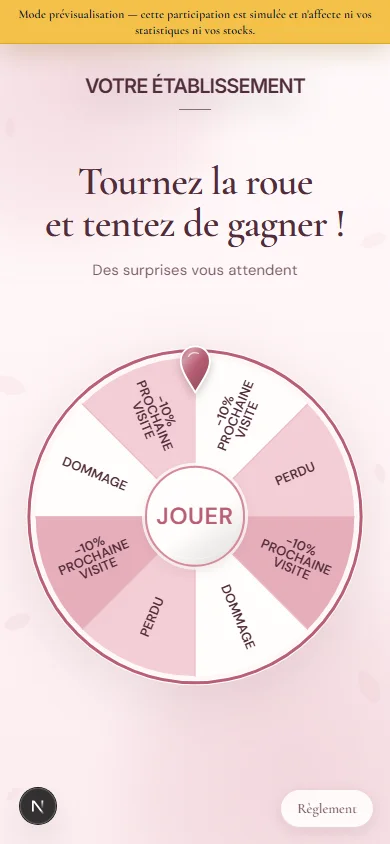
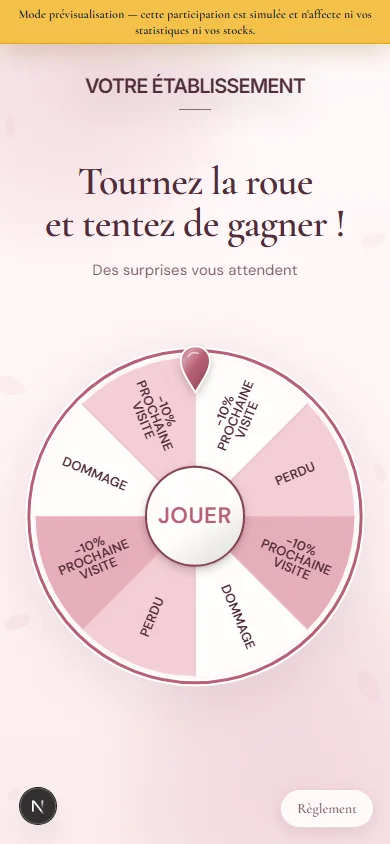
fix(wheel): refine play label and beauty center relief (#460)

Changed region(s): [[0.4, 0.5545, 0.6462, 0.6777], [0.3692, 0.5545, 0.4923, 0.6469], [0.4615, 0.5237, 0.5231, 0.5545]]

diff --git a/apps/web-app/src/components/merchant/beauty-wheel-template-gallery.tsx b/apps/web-app/src/components/merchant/beauty-wheel-template-gallery.tsx
@@ -2,7 +2,7 @@ import { BEAUTY_WHEEL_THEMES, beautyWheelBackground, beautyWheelDefaultBackgroun
 import Image from "next/image";
 import { buildBeautyWheelSegmentColors } from "@/lib/beauty-wheel-segments";
 import { BeautyLogoRule, BeautyWheelPointer } from "@/components/public/beauty-wheel-finishes";
-import { beautyCenterFinish } from "@/lib/beauty-wheel-finishes";
+import { beautyCenterFinish, beautyCenterRelief } from "@/lib/beauty-wheel-finishes";
 import { wheelButtonBackgroundForWhiteText } from "@/lib/wheel-button-contrast";
 import { textFontFamily } from "@/lib/format";
 import type { GamePageTemplateId } from "@/lib/types";
@@ -22,7 +22,7 @@ function BeautyWheelThumbnail({ theme }: { theme: BeautyTheme }) {
     <div
       aria-hidden="true"
       className="absolute -bottom-5 right-[-0.8rem] z-10 grid size-32 place-items-center rounded-full border-[3px] p-[3px]"
-      style={{ borderColor: ringColor, backgroundColor: theme.secondary, outline: "1px solid white", boxShadow: `0 8px 22px color-mix(in srgb, ${theme.primary} 22%, transparent)` }}
+      style={{ borderColor: ringColor, backgroundColor: theme.secondary, outline: "2px solid white", boxShadow: `0 8px 22px color-mix(in srgb, ${theme.primary} 22%, transparent)` }}
     >
       <div
         className="relative size-full rounded-full"
@@ -30,8 +30,8 @@ function BeautyWheelThumbnail({ theme }: { theme: BeautyTheme }) {
       >
         <div
           data-testid="beauty-thumbnail-center"
-          className="absolute left-1/2 top-1/2 flex size-[2.7rem] -translate-x-1/2 -translate-y-1/2 items-center justify-center rounded-full border-2 text-[9px] font-semibold tracking-[0.025em]"
-          style={{ background: beautyCenterFinish(centerBackground), borderColor: theme.id === "beauty-rose" ? theme.primary : "#ffffff", color: centerTextColor, fontFamily: textFontFamily("dm-sans"), boxShadow: `0 2px 6px color-mix(in srgb, ${theme.primary} 25%, transparent)` }}
+          className="absolute left-1/2 top-1/2 flex size-[2.7rem] -translate-x-1/2 -translate-y-1/2 items-center justify-center rounded-full border-2 text-[8px] font-semibold tracking-[0.025em]"
+          style={{ background: beautyCenterFinish(centerBackground), color: centerTextColor, fontFamily: textFontFamily("dm-sans"), ...beautyCenterRelief(theme.primary) }}
         >
           <span>JOUER</span>
         </div>
@@ -59,10 +59,10 @@ function EclatWheelThumbnail() {
     <div
       aria-hidden="true"
       className="absolute -bottom-5 right-[-0.8rem] z-10 grid size-32 place-items-center rounded-full border-[3px] border-[#f3a4c4] p-1 shadow-[0_9px_24px_rgba(222,103,151,0.18)]"
-      style={{ outline: "1px solid white", backgroundImage: "conic-gradient(from -22.5deg, #f3a4c4 0deg 45deg, #fff9fb 45deg 90deg, #f3a4c4 90deg 135deg, #fff9fb 135deg 180deg, #f3a4c4 180deg 225deg, #fff9fb 225deg 270deg, #f3a4c4 270deg 315deg, #fff9fb 315deg 360deg)" }}
+      style={{ outline: "2px solid white", backgroundImage: "conic-gradient(from -22.5deg, #f3a4c4 0deg 45deg, #fff9fb 45deg 90deg, #f3a4c4 90deg 135deg, #fff9fb 135deg 180deg, #f3a4c4 180deg 225deg, #fff9fb 225deg 270deg, #f3a4c4 270deg 315deg, #fff9fb 315deg 360deg)" }}
     >
       <div className="relative size-full rounded-full">
-        <div data-testid="beauty-thumbnail-center" className="absolute left-1/2 top-1/2 grid size-10 -translate-x-1/2 -translate-y-1/2 place-items-center rounded-full border-2 border-white text-[9px] font-semibold tracking-wide text-white shadow-md" style={{ background: beautyCenterFinish("#003cb4"), fontFamily: textFontFamily("dm-sans") }}>
+        <div data-testid="beauty-thumbnail-center" className="absolute left-1/2 top-1/2 grid size-10 -translate-x-1/2 -translate-y-1/2 place-items-center rounded-full border-2 text-[8px] font-semibold tracking-wide text-white" style={{ background: beautyCenterFinish("#003cb4"), fontFamily: textFontFamily("dm-sans"), ...beautyCenterRelief("#003cb4") }}>
           JOUER
         </div>
       </div>

diff --git a/apps/web-app/e2e/beauty-wheel-polish.spec.ts b/apps/web-app/e2e/beauty-wheel-polish.spec.ts
@@ -25,7 +25,19 @@ for (const template of templates) {
         await expect(button.locator("svg")).toHaveCount(0);
         await expect(button).toHaveCSS("background-image", /radial-gradient/);
         const label = button.locator(".okado-beauty-wheel-center-label");
-        expect(await label.evaluate((node) => Number.parseFloat(getComputedStyle(node).fontSize))).toBeGreaterThanOrEqual(17);
+        const fontSizes = await label.evaluate((node) => {
+          const current = Number.parseFloat(getComputedStyle(node).fontSize);
+          const element = node as HTMLElement;
+          element.style.fontSize = "clamp(17px, 6cqw, 28px)";
+          const previous = Number.parseFloat(getComputedStyle(node).fontSize);
+          element.style.removeProperty("font-size");
+          return { current, previous };
+        });
+        expect(fontSizes.current).toBeGreaterThanOrEqual(16);
+        expect(fontSizes.previous - fontSizes.current).toBeCloseTo(1, 2);
+        expect(await button.evaluate((node) => getComputedStyle(node, "::after").content)).toBe("none");
+        await expect(button).not.toHaveCSS("border-top-color", "rgb(255, 255, 255)");
+        await expect(button).not.toHaveCSS("box-shadow", "none");
         const buttonBox = (await button.boundingBox())!;
         const labelBox = (await label.boundingBox())!;
         expect(labelBox.width).toBeLessThan(buttonBox.width - 4);
@@ -34,6 +46,9 @@ for (const template of templates) {
         await expect(ring.locator("circle")).toHaveCount(2);
         await expect(ring.locator("circle").first()).toHaveAttribute("stroke", "#ffffff");
         await expect(surface.getByTestId("beauty-wheel-colored-rim")).toHaveAttribute("stroke-width", template === "beauty-nude" ? "2.5" : template === "beauty-pop" ? "3.2" : "3");
+        const whiteStroke = Number(await ring.locator("circle").first().getAttribute("stroke-width"));
+        const colorStroke = Number(await surface.getByTestId("beauty-wheel-colored-rim").getAttribute("stroke-width"));
+        expect((whiteStroke - colorStroke) / 2).toBeCloseTo(2);
         const pointer = surface.getByTestId("beauty-wheel-pointer");
         await expect(pointer).toHaveCSS("filter", /drop-shadow/);
         await expect(pointer.getByTestId("beauty-pointer-body")).toHaveAttribute("fill", /url\(#beauty-pointer-/);
@@ -80,6 +95,9 @@ test("les sept miniatures ont le centre sans icône, le reflet et un pointeur en
   for (const center of await centers.all()) {
     await expect(center.locator("svg")).toHaveCount(0);
     await expect(center).toHaveCSS("background-image", /radial-gradient/);
+    await expect(center).toHaveCSS("font-size", "8px");
+    await expect(center).not.toHaveCSS("border-top-color", "rgb(255, 255, 255)");
+    await expect(center).not.toHaveCSS("box-shadow", "none");
   }
   await expect(page.getByTestId("beauty-wheel-pointer")).toHaveCount(7);
   await expect(page.getByTestId("beauty-logo-rule")).toHaveCount(7);

diff --git a/apps/web-app/src/components/public/wheel-of-fortune.tsx b/apps/web-app/src/components/public/wheel-of-fortune.tsx
@@ -4,7 +4,7 @@ import { useEffect, useState } from "react";
 import { HalloweenWheelVisual } from "@/components/public/halloween-wheel-art";
 import { halloweenWheelVisualSegments } from "@/lib/halloween-wheel-theme";
 import { BeautyWheelPointer, BeautyWheelRim } from "@/components/public/beauty-wheel-finishes";
-import { beautyCenterFinish, beautyWheelRimColor } from "@/lib/beauty-wheel-finishes";
+import { beautyCenterFinish, beautyCenterRelief, beautyWheelRimColor } from "@/lib/beauty-wheel-finishes";
 import { textFontFamily } from "@/lib/format";
 import { dynamicWheelLightSegmentColor } from "@/lib/campaign-defaults";
 import { legibleSegmentTextColor } from "@/lib/color-contrast";
@@ -741,7 +741,7 @@ export function WheelOfFortune({
                 : isClassicTemplate || isRestaurantPopTemplate
                   ? highContrastTextColor(centerButtonBackground)
                   : centerButtonTextColor,
-            borderColor: isRosePowderTemplate ? "#d58a9a" : isClassicTemplate || isRestaurantPopTemplate ? "#ffffff" : isRoseInstitutTemplate || isBeautyTemplate ? "#ffffff" : buttonStyle?.borderColor ?? "#ffffff",
+            borderColor: hasBeautyFinish ? beautyCenterRelief(isRosePowderTemplate ? roseAccent : centerButtonBackground).borderColor : isClassicTemplate || isRestaurantPopTemplate ? "#ffffff" : buttonStyle?.borderColor ?? "#ffffff",
             fontSize: isClassicTemplate
               ? "clamp(0.88rem, 5.1cqw, 1.75rem)"
               : isRestaurantPopTemplate
@@ -749,7 +749,7 @@ export function WheelOfFortune({
               : isRoseInstitutTemplate
                 ? "clamp(0.92rem, 5.6cqw, 1.8rem)"
               : "clamp(0.84rem, 4.7cqw, 1.55rem)",
-            boxShadow: isRosePowderTemplate ? "0 4px 12px rgba(90,45,60,.10), 0 0 0 3px rgba(255,253,252,.88)" : isClassicTemplate || isRestaurantPopTemplate ? `0 6px 20px ${withAlpha(colors.loseColor, 0.26)}, 0 0 0 2px ${withAlpha(colors.rimColor, 0.24)}` : isBeautyTemplate ? `0 6px 16px ${withAlpha(colors.rimColor, pageTemplate === "beauty-botanical" ? 0.26 : 0.2)}, 0 0 0 2px ${withAlpha(beautyTheme?.secondary ?? "#ffffff", 0.88)}` : isRoseInstitutTemplate ? "0 8px 18px rgba(11,78,162,0.22)" : undefined,
+            boxShadow: hasBeautyFinish ? beautyCenterRelief(isRosePowderTemplate ? roseAccent : centerButtonBackground).boxShadow : isClassicTemplate || isRestaurantPopTemplate ? `0 6px 20px ${withAlpha(colors.loseColor, 0.26)}, 0 0 0 2px ${withAlpha(colors.rimColor, 0.24)}` : undefined,
             WebkitTextStroke: isRestaurantPopTemplate ? "0.35px currentColor" : undefined,
           }}
         >

diff --git a/apps/web-app/src/app/globals.css b/apps/web-app/src/app/globals.css
@@ -1751,37 +1751,12 @@ button:disabled,
   opacity: .9;
 }
 
-.okado-beauty-wheel-center::after {
-  position: absolute;
-  inset: 5px;
-  border: 1px solid rgba(255, 255, 255, .38);
-  border-radius: inherit;
-  content: "";
-  pointer-events: none;
-}
-
-.okado-beauty-wheel-center--beauty-nude::after {
-  border-color: rgba(255, 248, 232, .58);
-}
-
-.okado-beauty-wheel-center--beauty-botanical::after {
-  border-color: rgba(245, 250, 241, .58);
-}
-
 .okado-beauty-wheel-center .okado-beauty-wheel-center-label {
   font-family: var(--font-dm-sans), sans-serif;
-  font-size: clamp(17px, 6cqw, 28px);
+  font-size: calc(clamp(17px, 6cqw, 28px) - 1px);
   font-weight: 600;
   line-height: 1;
   letter-spacing: .025em;
-}
-
-.okado-beauty-wheel-center--beauty-editorial::after {
-  border-color: rgba(255, 247, 229, .62);
-}
-
-.okado-beauty-wheel-center--beauty-tech::after {
-  border-color: rgba(232, 221, 255, .64);
 }
 
 /* Éclat keeps its merchant-selected typeface; its central action remains

diff --git a/apps/web-app/src/lib/beauty-wheel-finishes.ts b/apps/web-app/src/lib/beauty-wheel-finishes.ts
@@ -5,6 +5,14 @@ export function beautyCenterFinish(background: string) {
   return `radial-gradient(ellipse at 24% 17%, rgba(255,255,255,.38) 0%, rgba(255,255,255,.1) 23%, transparent 48%), linear-gradient(145deg, color-mix(in srgb, ${background} 94%, white), ${background} 56%, color-mix(in srgb, ${background} 86%, black))`;
 }
 
+/** A darker, single edge and a soft cast shadow; no inner white ring. */
+export function beautyCenterRelief(accent: string) {
+  return {
+    borderColor: `color-mix(in srgb, ${accent} 70%, black)`,
+    boxShadow: `0 4px 10px rgba(39,28,23,.20), 0 1px 3px color-mix(in srgb, ${accent} 25%, transparent)`,
+  };
+}
+
 /** The native rim uses the accent, but an explicit custom rim keeps its color. */
 export function beautyWheelRimColor(templateId: GamePageTemplateId, rim: string, accent: string) {
   const theme = beautyWheelTheme(templateId);

diff --git a/apps/web-app/src/components/public/beauty-wheel-finishes.tsx b/apps/web-app/src/components/public/beauty-wheel-finishes.tsx
@@ -5,7 +5,7 @@ import { useId, type CSSProperties } from "react";
 /** Decorative only: no interaction, segment selection or animation state. */
 export function BeautyWheelRim({ color, width, fill }: { color: string; width: number; fill: string }) {
   return <g data-testid="beauty-wheel-rim">
-    <circle cx="320" cy="320" r="317" fill={fill} stroke="#ffffff" strokeWidth={width + 2} vectorEffect="non-scaling-stroke" />
+    <circle cx="320" cy="320" r="317" fill={fill} stroke="#ffffff" strokeWidth={width + 4} vectorEffect="non-scaling-stroke" />
     <circle data-testid="beauty-wheel-colored-rim" cx="320" cy="320" r="317" fill="none" stroke={color} strokeWidth={width} vectorEffect="non-scaling-stroke" />
   </g>;
 }

diff --git a/docs/design/wheel-polish-460.md b/docs/design/wheel-polish-460.md
@@ -8,11 +8,11 @@ La demande concerne les finitions, pas une copie du fond ou des pictogrammes de 
 
 ## Choix visuels
 
-- JOUER seul, sans main ni fleur, en DM Sans 600. Taille responsive de 17 à 28 px, sans diminuer les diamètres des disques centraux.
-- Reflet radial discret en haut à gauche, léger modelé diagonal et liseré intérieur. Rose poudré garde son disque ivoire ; les autres thèmes gardent leur teinte propre et la correction de contraste existante.
+- JOUER seul, sans main ni fleur, en DM Sans 600. Taille responsive de 16 à 27 px : réduction exacte de 1 px par rapport à la première version de la PR #461, sans diminuer les diamètres des disques centraux.
+- Reflet radial discret en haut à gauche et léger modelé diagonal. Aucun filet blanc intérieur ; contour assombri de la teinte du bouton et ombre portée douce. Rose poudré garde son disque ivoire ; les autres thèmes gardent leur teinte propre et la correction de contraste existante.
 - Filet de 32 × 1 px sous un logo texte, absent avec une image ou sans logo.
 - Lots en DM Sans 600, déjà disponible : tailles minimales, contenu et orientation relative aux segments inchangés.
-- Un seul contour coloré, renforcé de 1 px (2,5 px Nude, 3,2 px Pop, 3 px pour les autres), accompagné d'un liseré blanc extérieur de 1 px. Épaisseur stable en pixels CSS grâce au trait non redimensionné.
+- Un seul contour coloré, renforcé de 1 px (2,5 px Nude, 3,2 px Pop, 3 px pour les autres), accompagné d'un liseré blanc extérieur de 2 px, augmenté de 1 px à la demande du propriétaire. Épaisseur stable en pixels CSS grâce au trait non redimensionné.
 - Pointeur avec modelé, reflet haut-gauche, bord blanc et ombre douce. Les ancrages et dimensions précédents restent inchangés ; Éclat adopte la finition goutte.
 - Les couleurs de contour explicitement personnalisées restent prioritaires ; les contours natifs suivent l'accent du thème.
 
@@ -44,6 +44,10 @@ Base : PR #459, commit `b83ab06`, issue #458. PR empilée, sans fusion implicite
 - Inspection des sept captures publiques, des aperçus et de la galerie : aucune icône au centre, texte JOUER non tronqué à 320/390 px, vrais lots conservés et aucune erreur de page.
 - Revue React : aucun effet, callback ou état de jeu ajouté/modifié ; finitions communes, dégradés CSS légers, identifiants SVG uniques et décor non interactif.
 - Serveur construit en mode production : la fixture `/dev/beauty-wheel-backgrounds` reste inaccessible (HTTP 404).
+
+### Itération après retour sur la PR #461
+
+Le même jour, les 127 tests sont rejoués avec succès après réduction du libellé de 1 px, suppression du filet blanc intérieur, contour assombri/ombre du centre et liseré extérieur passé à 2 px. Les sept captures et la galerie ci-dessus sont remplacées par ce dernier rendu. Les tests mesurent le delta exact de police et l'épaisseur du liseré ; lint toujours sans erreur (quatre avertissements existants). Aucun changement de dimensions, de palette ni de handlers.
 
 ## Recette propriétaire
 

diff --git a/docs/PRODUCT.md b/docs/PRODUCT.md
@@ -78,7 +78,7 @@
 
 ## Finitions des roues Beauté — issue #460
 
-Les six thèmes Beauté et Éclat partagent une finition de disque central en relief, sans icône, avec JOUER en DM Sans. Les libellés des lots utilisent également DM Sans, graisse 600, sans modifier leur orientation relative aux segments ni leur taille minimale. Le contour coloré est renforcé de 1 px et suivi d'un liseré blanc, sans anneau coloré extérieur en doublon. Les pointeurs gardent leur ancrage et bénéficient d'un dégradé/reflet et d'une ombre douce. Un filet fin suit le logo uniquement en mode texte ; il est absent en mode image et sans logo. Les diamètres des centres, palettes, réglages de textes/espacements, fonds et mécanique de jeu sont préservés. Les miniatures reprennent les mêmes finitions.
+Les six thèmes Beauté et Éclat partagent une finition de disque central en relief, sans icône, avec JOUER en DM Sans. Après le retour propriétaire sur la PR #461, JOUER est réduit de 1 px (16–27 px), le filet blanc intérieur du bouton est supprimé et remplacé par un contour assombri et une ombre douce. Les libellés des lots utilisent également DM Sans, graisse 600, sans modifier leur orientation relative aux segments ni leur taille minimale. Le contour coloré est renforcé de 1 px et suivi d'un liseré blanc extérieur de 2 px, sans anneau coloré extérieur en doublon. Les pointeurs gardent leur ancrage et bénéficient d'un dégradé/reflet et d'une ombre douce. Un filet fin suit le logo uniquement en mode texte ; il est absent en mode image et sans logo. Les diamètres des centres, palettes, réglages de textes/espacements, fonds et mécanique de jeu sont préservés. Les miniatures reprennent les mêmes finitions.
 
 ## Fonds des roues Nude & Or et Botanical — issue #458
 

diff --git a/docs/TEST_STRATEGY.md b/docs/TEST_STRATEGY.md
@@ -85,6 +85,7 @@ Un changement qui touche l'un de ces parcours doit avoir une preuve de test auto
 
 - `e2e/beauty-wheel-polish.spec.ts` : six thèmes Beauté et Éclat, aperçu compact et jeu public à 320/390 px, JOUER sans icône et police agrandie non tronquée, reflet haut-gauche, police DM Sans des vrais lots, contour coloré unique + liseré blanc, pointeur en relief et identifiants SVG uniques.
 - Logo texte/image/aucun : filet uniquement sous le texte. Vérifier les choix de contour personnalisés et l'absence de changement hors Beauté.
+- Retour PR #461 : mesurer la réduction exacte de 1 px de JOUER à 320/390 px, vérifier l'absence du pseudo-élément de filet blanc intérieur, la bordure centrale non blanche et son ombre, le liseré blanc extérieur de 2 px et les miniatures actualisées.
 - Pour chaque thème, rejouer le clic qui ouvre l'action puis l'animation jusqu'à son unique callback de résultat, sans API métier. Le mécanisme, la rotation et les probabilités ne sont pas modifiés.
 - Rejouer les suites #458, thèmes Beauté, fonds de roues et Halloween ; vérifier les captures et le build. Les fixtures demeurent exclusivement accessibles en développement.
 - Référence, captures et recette : [finitions Beauté](design/wheel-polish-460.md).
